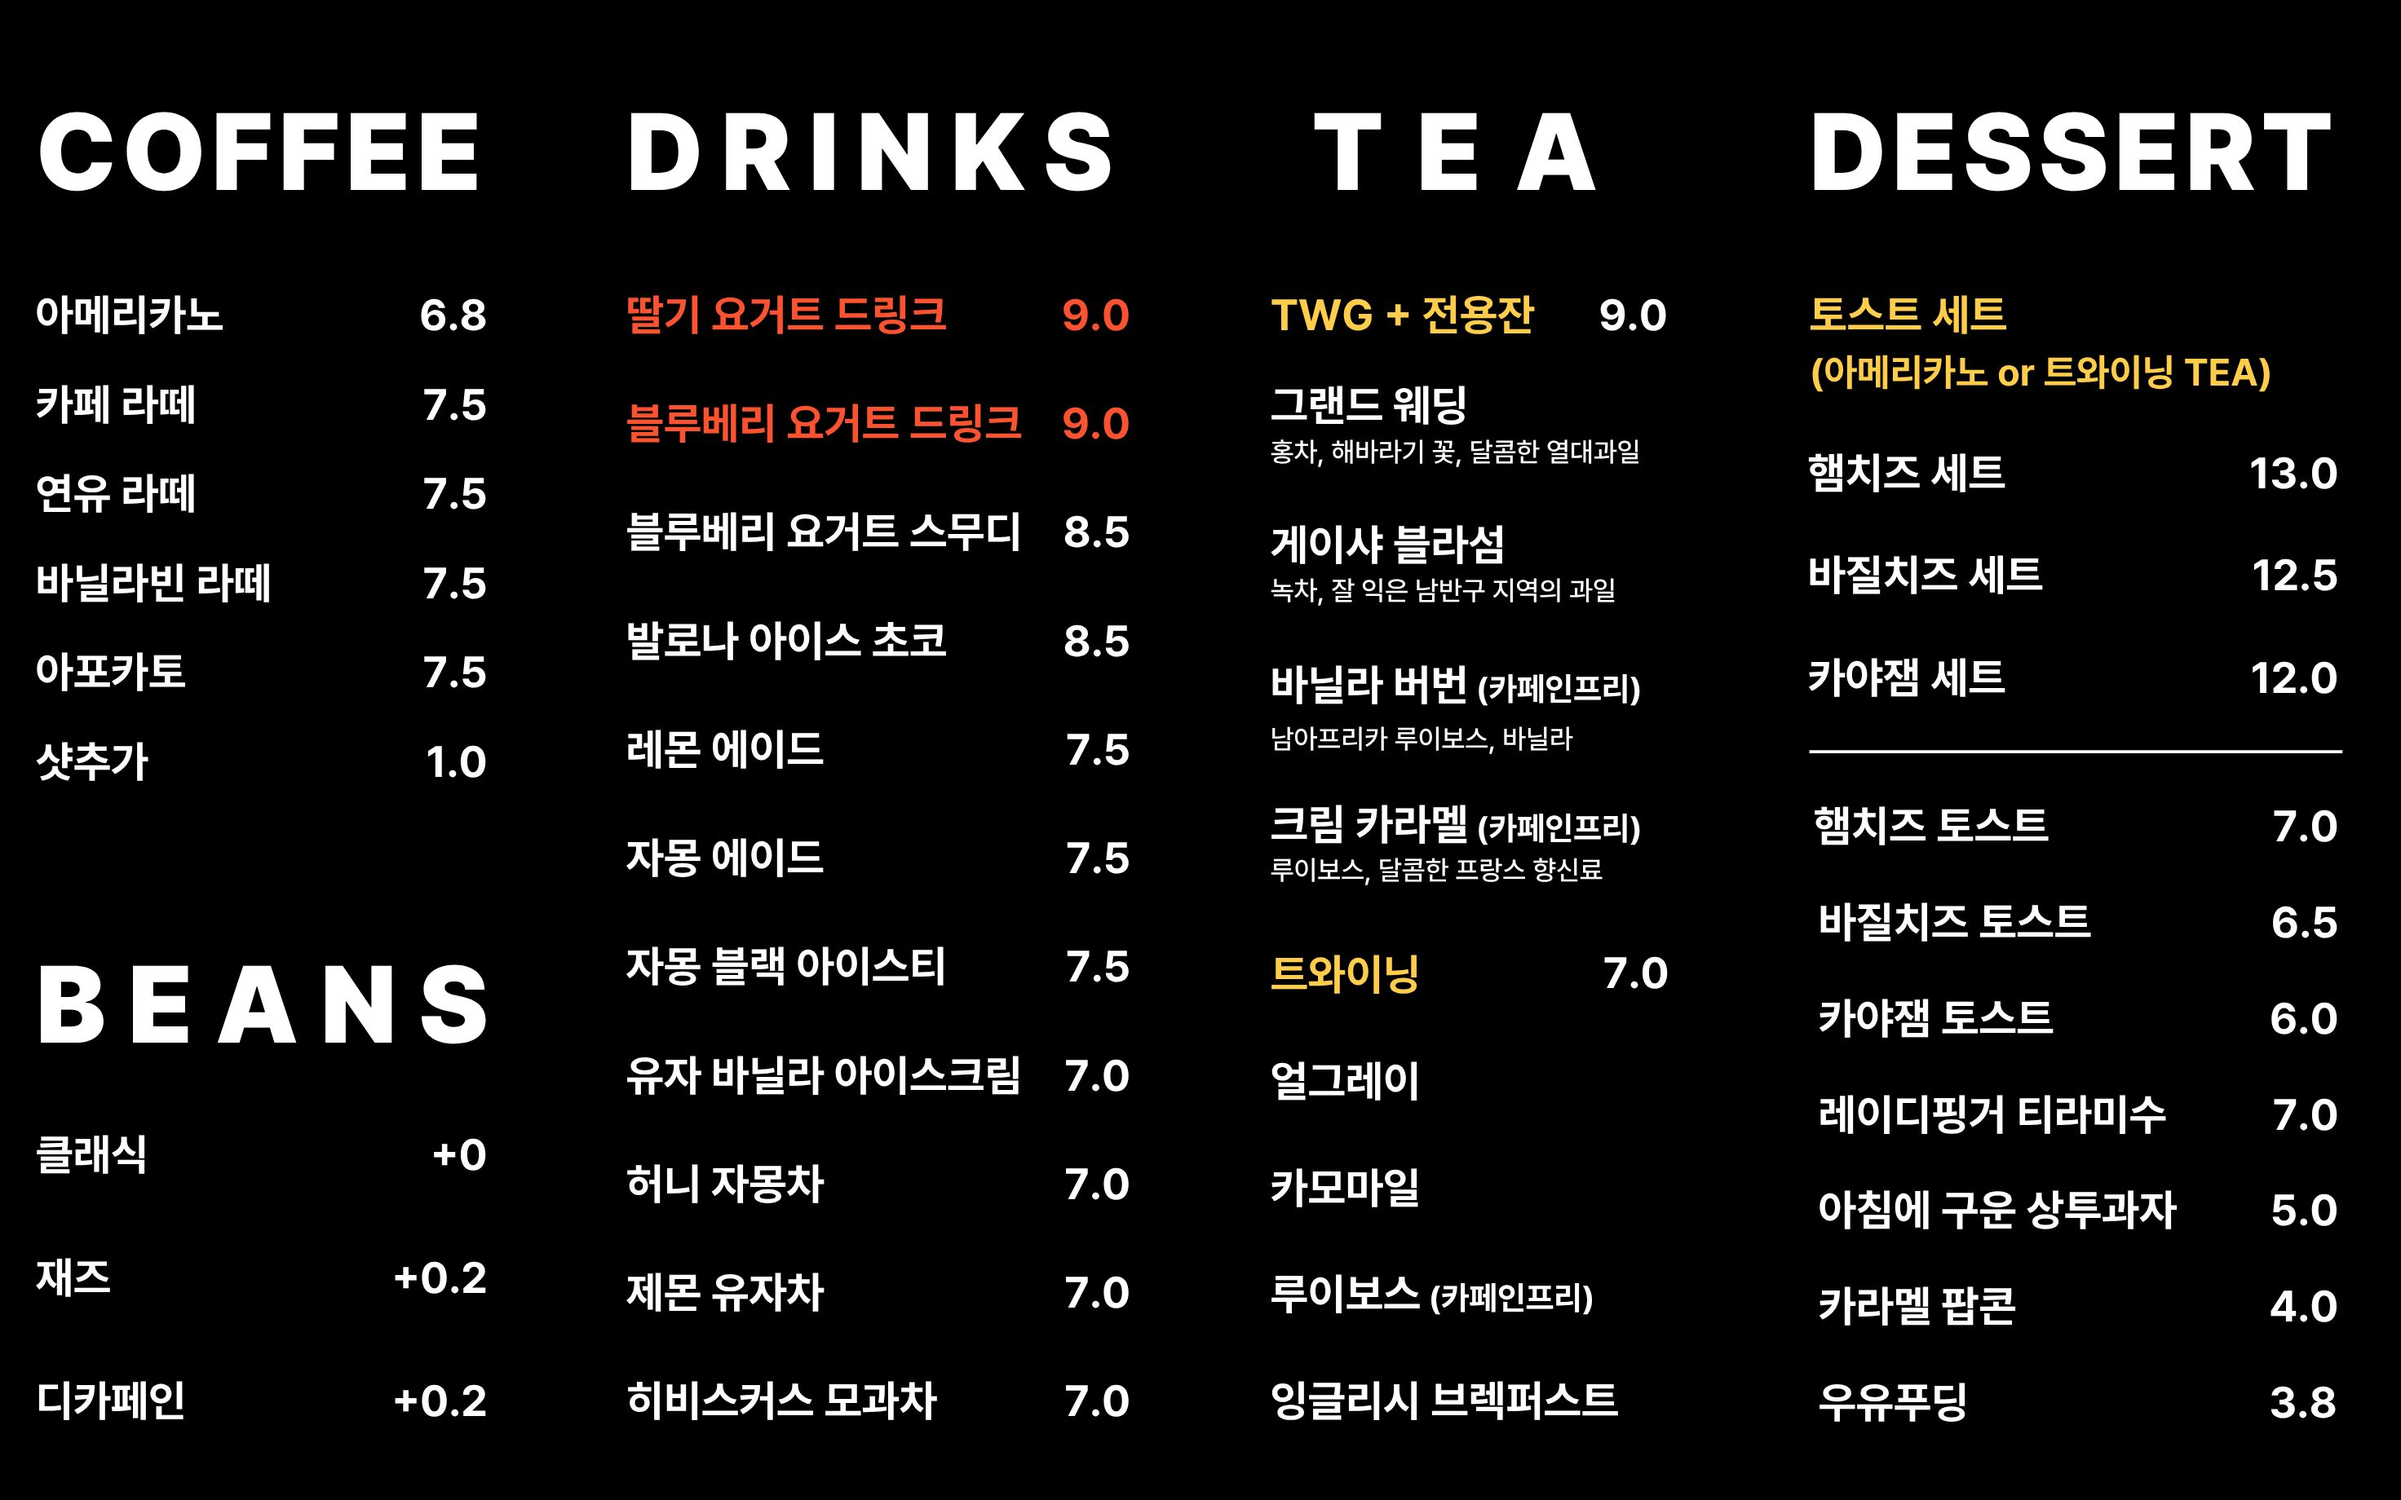
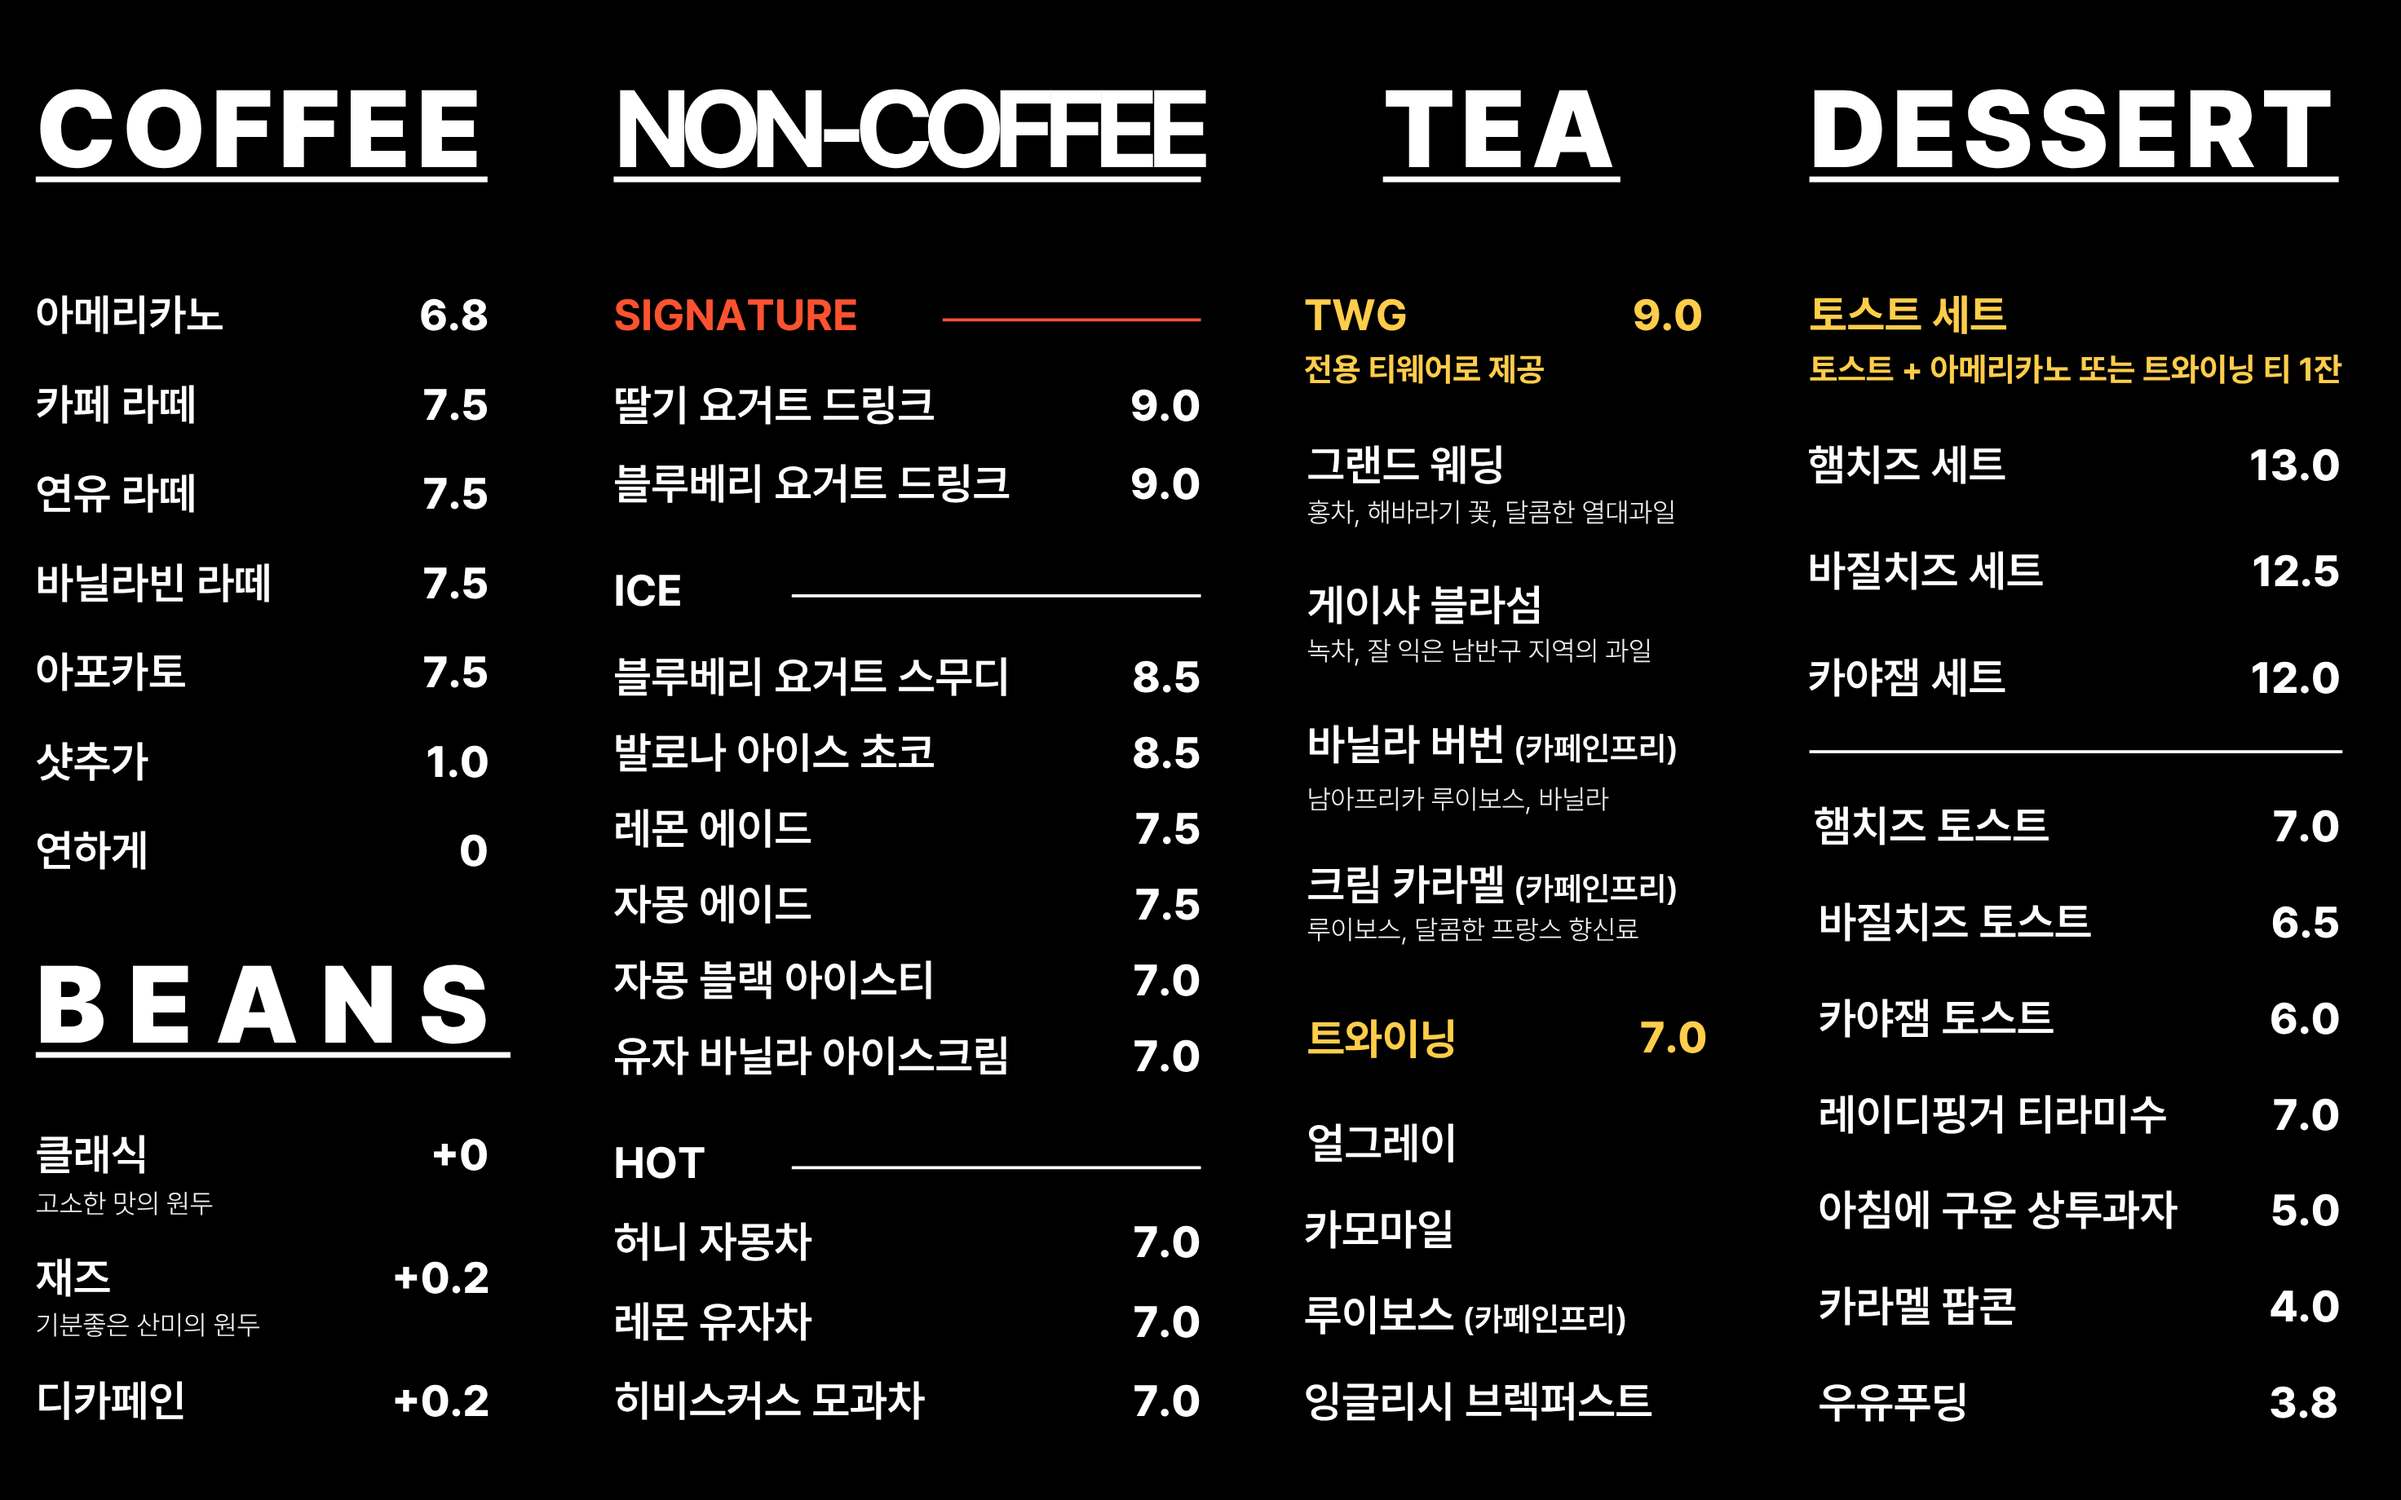
Add Liberation Day opening notice&Update menu board

diff --git a/js/script.js b/js/script.js
@@ -178,6 +178,14 @@ document.addEventListener('DOMContentLoaded', () => {
       showInCalendar: false
     },
     {
+      date: '2026-08-15',
+      dayText: '8월 15일',
+      title: '광복절 정상영업',
+      displayTime: '오전 11시 ~ 오후 8시',
+      calendarTime: '11:00~20:00',
+      showInCalendar: false
+    },
+    {
       date: '2026-08-17',
       dayText: '8월 17일',
       title: '대체공휴일 정상영업',
@@ -188,6 +196,7 @@ document.addEventListener('DOMContentLoaded', () => {
   ];
   const specialOpenDays = {
     '2026-07-17': '정상영업',
+    '2026-08-15': '정상영업',
     '2026-08-17': '정상영업'
   };
 
